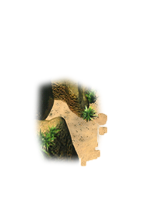
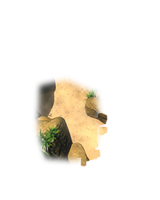
Clarify the Overdell Pass entrance and its sandy approach

diff --git a/story/mods/what-the-island-forgot/maps/dgha01-pass.py b/story/mods/what-the-island-forgot/maps/dgha01-pass.py
@@ -5,21 +5,22 @@ the boulder and the lower rock, the way up into the Overdell Pass (its last scre
 The notch is our own picture (art/dgha01-pass.png, with transparency; made with Nano Banana on a 5x enlargement of the
 cliff's foot and cut out of its answer: only the sand pocket and the gap behind it, feathered). It is laid over the
 player's own DGHA01 background at build time; nothing of the game's background is in this folder. Exit 3 of the map
-(unused by the game) leads to the pass; the tiles of the pocket and the sand against it trigger it; the arrival from
-the pass is on the sand, two tiles out, facing the clearing. Exit 2's tiles (the way to the Great Canyon Entrance)
+(unused by the game) leads to the pass; only the open mouth triggers it; the wider sandy approach skirts the framing rocks. The arrival from
+the pass is on the clearing, facing away from the mouth. Exit 2's tiles (the way to the Great Canyon Entrance)
 become step trigger 0: the story (arcs/canyon/stone-bridge.py) leads to screen 36, or to 367 (the stone bridge) once
 the Motor is broken (R1).
 
     python3 dgha01-pass.py OUT_DIR        writes OUT_DIR/DGHA01.MAP and DGHA01.TFS (they replace the disc's)
 """
 import os, sys
-from mapbase import extracted, Cam, dwmap, MOD, check_arrivals, bg
+from mapbase import extracted, Cam, dwmap, MOD, check_arrivals, bg, inside
 from maps import reach
 
 PASS_PNG = os.path.join(MOD, 'art', 'dgha01-pass.png')
 PASS_AT = (0, 240)                                      # top-left of the picture on the 640x768 background
-EXIT_BOX = (40, 330, 104, 395)                          # pixels: the sand pocket of the notch and the first free column of sand beside it
-SPAWN_PX = (150, 362)                                   # the arrival from the pass, on the sand, two tiles out
+EXIT_BOX = (35, 332, 60, 355)                          # pixels: the dark open mouth
+APPROACH = [(34, 325), (70, 325), (85, 350), (110, 360), (110, 397), (85, 390), (65, 375), (34, 360)]
+SPAWN_PX = (150, 390)                                   # the arrival from the pass, on the open sand
 ROTATION = 1024                                         # facing +X: into the clearing
 WARP = 3
 TARGET = (335, 1)                                       # the last descent's bottom edge
@@ -35,6 +36,10 @@ def main(out):
     col = list(m.collision); exit_tiles = []; spawn = None; best = None
     for tx, tz, u, v in cam.tiles():
         if u is None: continue
+        # Only sandy floor is opened; the rocks framing the passage remain solid.
+        if inside(APPROACH, u, v): col[tz * 100 + tx] = 0
+        if 32 <= u <= 110 and 312 <= v <= 404 and not inside(APPROACH, u, v):
+            col[tz * 100 + tx] = 128
         if EXIT_BOX[0] <= u <= EXIT_BOX[2] and EXIT_BOX[1] <= v <= EXIT_BOX[3]:
             col[tz * 100 + tx] = 110 + WARP; exit_tiles.append((tx, tz))
         d = (u - SPAWN_PX[0]) ** 2 + (v - SPAWN_PX[1]) ** 2
